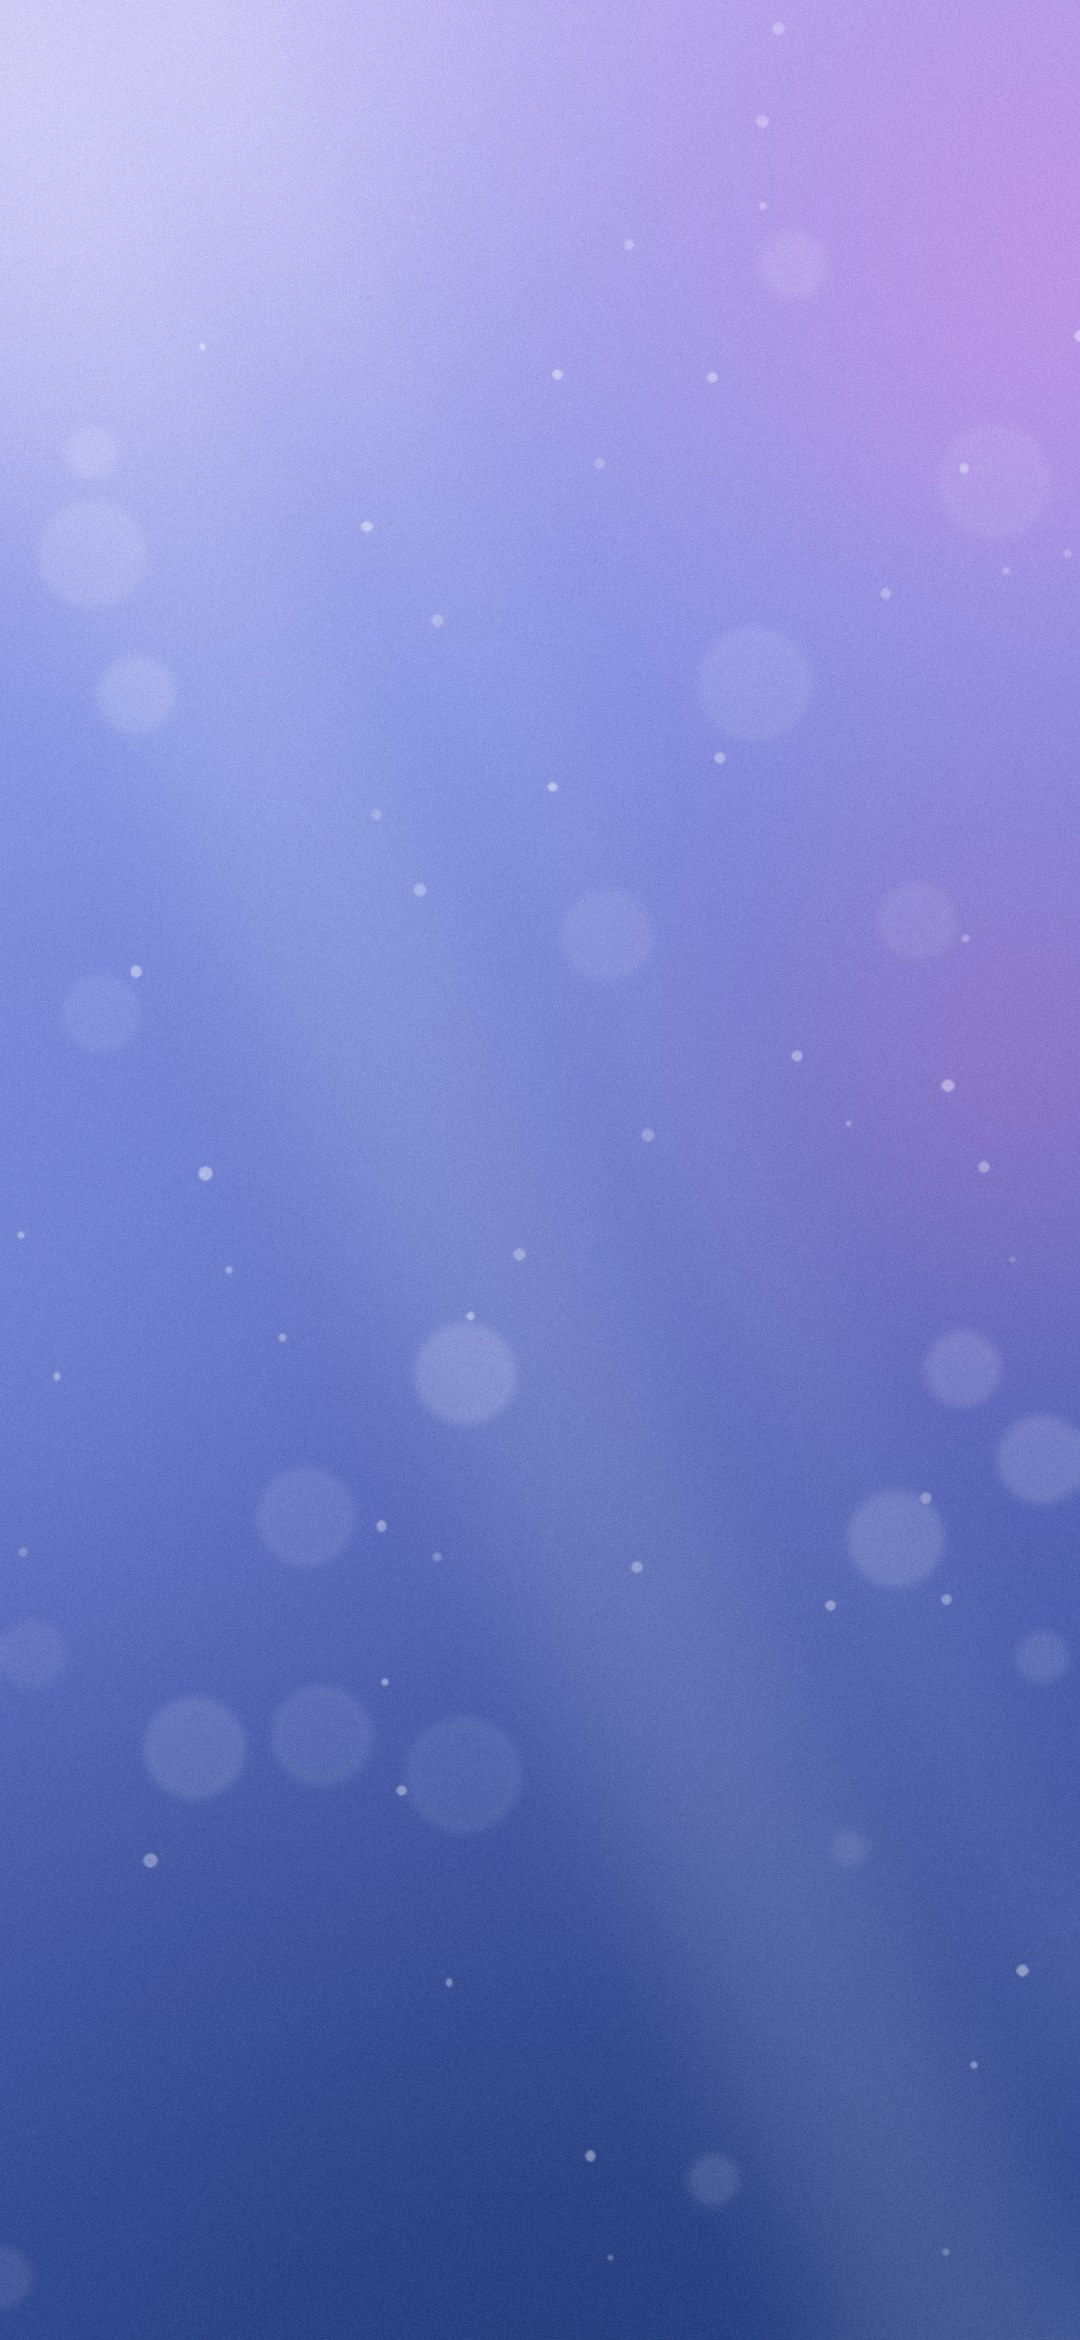
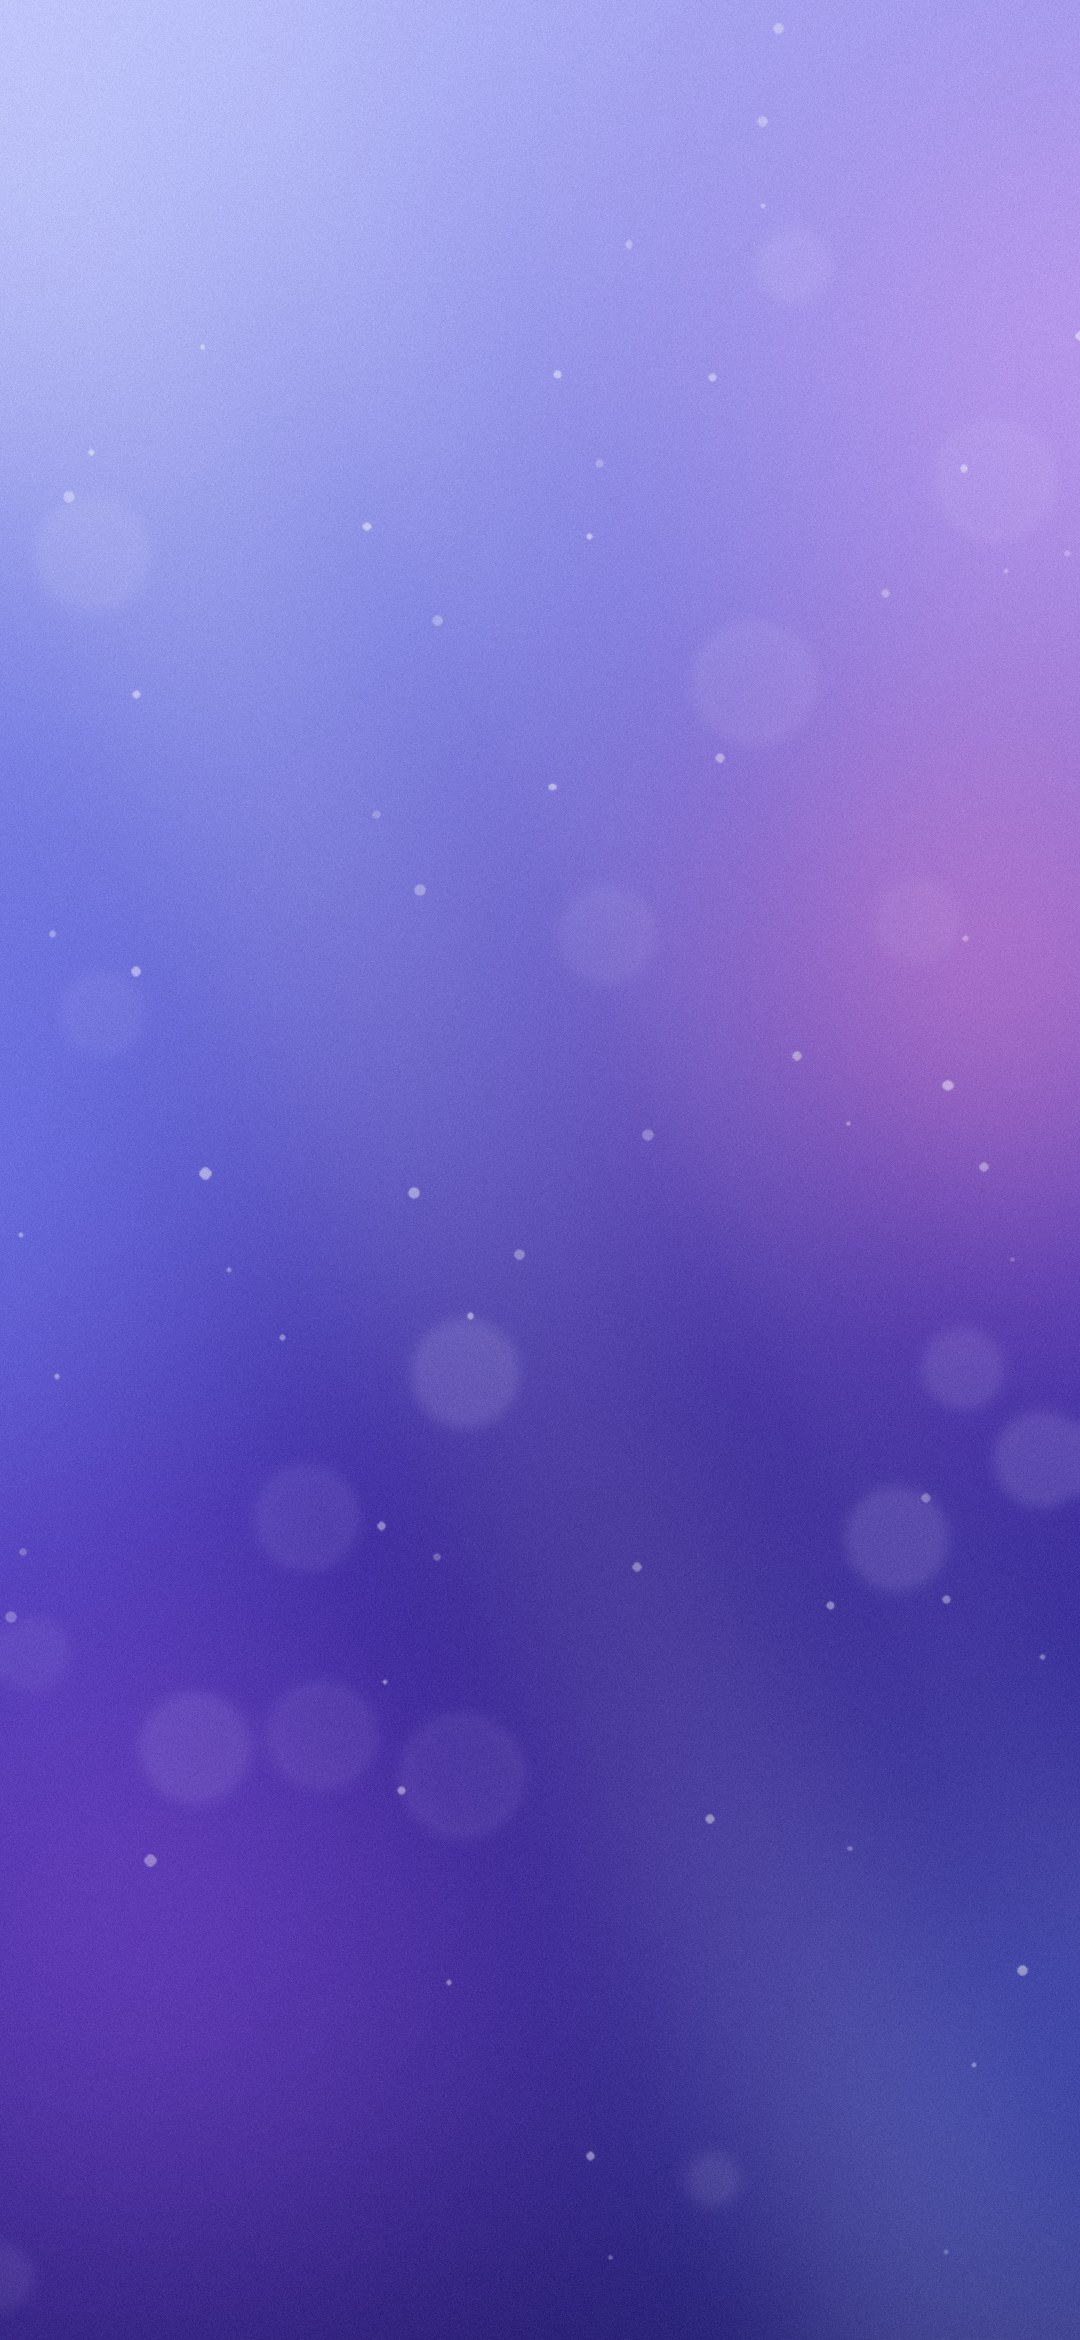
Light and material: lit backdrops, frosted and smoked glass, glow
Lavender
- Backdrop re-rendered as a lit environment: periwinkle light from the top left, lilac and a
  pink bloom on the right, sinking into electric-indigo depth; bokeh and soft beams
- The flat violet scrim is gone; only a breath of tint remains
- Glass is frost now: mostly clear white with blur, a diagonal inner sheen, bright 1px edges,
  an inner top highlight and a soft floating shadow
- Category circles carry their own tint of light with a matching glow; the artwork card blooms pink
- A soft indigo halo behind row text keeps it legible over the brighter glass

Stone
- Backdrop: a broad warm shaft of window light with haze, falling into warm shadow
- Smoked glass: darker translucent fill, faint edges, a low inner highlight, natural shadow

Claude-Session: https://claude.ai/code/session_01J4isz7QKZ3STKCNEGrqxRF

diff --git a/src/components/GlassHome.tsx b/src/components/GlassHome.tsx
@@ -22,6 +22,22 @@ export interface HomeItem {
   onLongPress?: () => void;
 }
 
+/** Each category circle carries its own tint of light, with a matching glow beneath it. */
+const CIRCLE_TINTS = [
+  'rgba(236,120,220,0.30)',
+  'rgba(110,170,255,0.30)',
+  'rgba(160,120,255,0.32)',
+  'rgba(255,140,190,0.28)',
+  'rgba(200,190,255,0.28)',
+];
+const CIRCLE_GLOWS = [
+  'rgba(236,120,220,0.45)',
+  'rgba(110,170,255,0.45)',
+  'rgba(160,120,255,0.45)',
+  'rgba(255,140,190,0.42)',
+  'rgba(200,190,255,0.4)',
+];
+
 /** Vivid tile colours for Lavender rows, so each row reads at a glance like album art. */
 const TILES: [string, string][] = [
   ['#FF8AD8', '#7B5CFF'],
@@ -137,12 +153,12 @@ function LavenderHome(p: Props) {
 
       <SectionHead title="Categories" action="See all" onAction={p.onSeeAll} />
       <View style={styles.circles}>
-        {p.categories.map((c) => (
+        {p.categories.map((c, i) => (
           <View key={c.label} style={styles.circleItem}>
             <Glass
               radius={26}
-              tint={c.active ? colors.selected : undefined}
-              style={styles.circle}
+              tint={c.active ? colors.selected : CIRCLE_TINTS[i % CIRCLE_TINTS.length]}
+              style={[styles.circle, { boxShadow: `0px 6px 20px ${CIRCLE_GLOWS[i % CIRCLE_GLOWS.length]}` }]}
               onPress={c.onPress}
               accessibilityLabel={c.label}
             >
@@ -332,7 +348,7 @@ function SectionHead({ title, action, onAction }: { title: string; action?: stri
   );
 }
 
-const makeStyles = ({ colors, fonts }: Theme) =>
+const makeStyles = ({ colors, fonts, name }: Theme) =>
   StyleSheet.create({
     flex: { flex: 1 },
     bar: { flexDirection: 'row', alignItems: 'center', justifyContent: 'space-between', height: 44 },
@@ -368,8 +384,9 @@ const makeStyles = ({ colors, fonts }: Theme) =>
       overflow: 'hidden',
       padding: 20,
       borderWidth: 1,
-      borderColor: 'rgba(255,255,255,0.35)',
-      boxShadow: colors.shadow,
+      borderColor: 'rgba(255,255,255,0.4)',
+      // A pink bloom under the artwork, as if the scene lights the glass around it.
+      boxShadow: '0px 18px 44px rgba(255,110,200,0.32), 0px 8px 18px rgba(30,16,100,0.35)',
     },
     lavEyebrow: { fontFamily: fonts.bodyMedium, fontSize: 14, color: 'rgba(255,255,255,0.85)' },
     lavHeroTitle: {
@@ -401,13 +418,35 @@ const makeStyles = ({ colors, fonts }: Theme) =>
     circles: { flexDirection: 'row', justifyContent: 'space-between' },
     circleItem: { alignItems: 'center', gap: 8, width: 66 },
     circle: { width: 52, height: 52, alignItems: 'center', justifyContent: 'center' },
-    circleLabel: { fontFamily: fonts.bodyMedium, fontSize: 13, color: colors.text },
+    circleLabel: {
+      fontFamily: fonts.bodyMedium,
+      fontSize: 13,
+      color: colors.text,
+      ...(name === 'lavender'
+        ? { textShadowColor: 'rgba(28,14,110,0.55)', textShadowRadius: 8, textShadowOffset: { width: 0, height: 1 } }
+        : null),
+    },
     rows: { gap: 10 },
     row: { flexDirection: 'row', alignItems: 'center', gap: 12, padding: 8, paddingRight: 12 },
     emptyRow: { flexDirection: 'row', alignItems: 'center', gap: 10, padding: 16 },
     thumb: { width: 48, height: 48, borderRadius: 14, overflow: 'hidden', alignItems: 'center', justifyContent: 'center' },
-    rowTitle: { fontFamily: fonts.bodyBold, fontSize: 16, color: colors.text },
-    rowMeta: { marginTop: 2, fontFamily: fonts.body, fontSize: 14, color: colors.muted },
+    rowTitle: {
+      fontFamily: fonts.bodyBold,
+      fontSize: 16,
+      color: colors.text,
+      ...(name === 'lavender'
+        ? { textShadowColor: 'rgba(28,14,110,0.55)', textShadowRadius: 8, textShadowOffset: { width: 0, height: 1 } }
+        : null),
+    },
+    rowMeta: {
+      marginTop: 2,
+      fontFamily: fonts.body,
+      fontSize: 14,
+      color: colors.muted,
+      ...(name === 'lavender'
+        ? { textShadowColor: 'rgba(28,14,110,0.55)', textShadowRadius: 8, textShadowOffset: { width: 0, height: 1 } }
+        : null),
+    },
     rowDone: { opacity: 0.6, textDecorationLine: 'line-through' },
     rowButton: {
       width: 44,

diff --git a/src/theme.ts b/src/theme.ts
@@ -59,10 +59,10 @@ export type Kind = 'routines' | 'gym' | 'chinese' | 'groceries' | 'calendar' | '
 const PALETTES: Record<ThemeName, { colors: Palette; kinds: Record<Kind, KindStyle> }> = {
   lavender: {
     colors: {
-      gradient: ['#B4A8EE', '#8494E3', '#3D5FB9'],
-      bg: '#8494E3',
+      gradient: ['#A3A6F2', '#5E5FD0', '#221A68'],
+      bg: '#5E5FD0',
       card: 'rgba(40,70,160,0.32)',
-      cardBorder: 'rgba(255,255,255,0.24)',
+      cardBorder: 'rgba(255,255,255,0.28)',
       sheet: '#5B6BBC',
       input: 'rgba(40,70,160,0.32)',
       text: '#FFFFFF',
@@ -74,18 +74,18 @@ const PALETTES: Record<ThemeName, { colors: Palette; kinds: Record<Kind, KindSty
       primarySoft: 'rgba(147,141,238,0.6)',
       danger: '#FFD1DC',
       backdrop: 'rgba(20,30,80,0.4)',
-      tabBar: 'rgba(104,112,224,0.55)',
+      tabBar: 'rgba(255,255,255,0.12)',
       statusBar: 'light',
-      glassFill: ['rgba(96,102,226,0.55)', 'rgba(58,70,192,0.62)'],
+      glassFill: ['rgba(255,255,255,0.15)', 'rgba(255,255,255,0.03)'],
       blurTint: 'default',
       glow: '#CD94E6',
-      rim: 'rgba(255,255,255,0.4)',
+      rim: 'rgba(255,255,255,0.62)',
       accent: '#F270C8',
       selected: '#6E5FD3',
       onSelected: '#FFFFFF',
-      shadow: '0px 10px 30px rgba(35,58,140,0.35)',
-      shine: 'rgba(255,255,255,0.12)',
-      edgeGlow: 'rgba(205,148,230,0.22)',
+      shadow: '0px 14px 34px rgba(26,14,96,0.38), inset 0px 1px 1px rgba(255,255,255,0.45)',
+      shine: 'rgba(255,255,255,0.2)',
+      edgeGlow: 'rgba(255,143,208,0.2)',
     },
     kinds: {
       routines: { color: '#5B43D6', soft: 'rgba(91,67,214,0.25)', label: 'Routines' },
@@ -101,7 +101,7 @@ const PALETTES: Record<ThemeName, { colors: Palette; kinds: Record<Kind, KindSty
       gradient: ['#676755', '#4B4B44', '#31332B'],
       bg: '#4B4B44',
       card: 'rgba(255,250,235,0.08)',
-      cardBorder: 'rgba(255,250,235,0.14)',
+      cardBorder: 'rgba(255,250,235,0.10)',
       sheet: '#3F403A',
       input: 'rgba(255,250,235,0.08)',
       text: '#FFFBE9',
@@ -113,17 +113,17 @@ const PALETTES: Record<ThemeName, { colors: Palette; kinds: Record<Kind, KindSty
       primarySoft: 'rgba(255,251,233,0.12)',
       danger: '#E7A08F',
       backdrop: 'rgba(0,0,0,0.45)',
-      tabBar: 'rgba(40,40,32,0.45)',
+      tabBar: 'rgba(28,28,22,0.4)',
       statusBar: 'light',
-      glassFill: ['rgba(255,250,235,0.10)', 'rgba(255,250,235,0.04)'],
+      glassFill: ['rgba(40,39,30,0.30)', 'rgba(22,22,16,0.42)'],
       blurTint: 'dark',
       glow: '#E6D6B3',
-      rim: '#93917C',
+      rim: 'rgba(255,248,230,0.24)',
       accent: '#E6D6B3',
       selected: '#E6D6B3',
       onSelected: '#2E2D24',
-      shadow: '0px 6px 18px rgba(0,0,0,0.18)',
-      shine: 'rgba(255,248,230,0.08)',
+      shadow: '0px 12px 30px rgba(0,0,0,0.3), inset 0px 1px 0px rgba(255,248,230,0.12)',
+      shine: 'rgba(255,248,230,0.07)',
       edgeGlow: 'rgba(230,214,179,0.06)',
     },
     kinds: {
@@ -230,7 +230,15 @@ export interface Theme {
 export function buildTheme(name: ThemeName): Theme {
   const { colors, kinds } = PALETTES[name] ?? PALETTES.lavender;
   const fonts = { ...FONTS, ...DISPLAY[name] };
-  return { name, colors, kinds, fonts, type: makeType(colors, fonts, name !== 'paper'), radius: name === 'paper' ? 16 : 22, glass: name !== 'paper' };
+  return {
+    name,
+    colors,
+    kinds,
+    fonts,
+    type: makeType(colors, fonts, name !== 'paper'),
+    radius: name === 'paper' ? 16 : 22,
+    glass: name !== 'paper',
+  };
 }
 
 const THEMES: Record<ThemeName, Theme> = {

diff --git a/src/components/Glass.tsx b/src/components/Glass.tsx
@@ -39,7 +39,11 @@ export function Glass({ style, radius, intensity = 85, tint, onPress, onLongPres
   const interactive = !!(onPress || onLongPress);
 
   if (!glass) {
-    const plain = <View style={[{ borderRadius: r, backgroundColor: colors.card, borderWidth: 1, borderColor: colors.cardBorder }, style]}>{children}</View>;
+    const plain = (
+      <View style={[{ borderRadius: r, backgroundColor: colors.card, borderWidth: 1, borderColor: colors.cardBorder }, style]}>
+        {children}
+      </View>
+    );
     return interactive ? (
       <Pressable onPress={onPress} onLongPress={onLongPress} accessibilityLabel={accessibilityLabel} accessibilityRole="button">
         {plain}
@@ -70,18 +74,39 @@ export function Glass({ style, radius, intensity = 85, tint, onPress, onLongPres
           style={StyleSheet.absoluteFill}
         />
       )}
-      <LinearGradient colors={colors.glassFill} start={{ x: 0, y: 0 }} end={{ x: 1, y: 1 }} style={StyleSheet.absoluteFill} pointerEvents="none" />
+      <LinearGradient
+        colors={colors.glassFill}
+        start={{ x: 0, y: 0 }}
+        end={{ x: 1, y: 1 }}
+        style={StyleSheet.absoluteFill}
+        pointerEvents="none"
+      />
       {tint ? <View style={[StyleSheet.absoluteFill, { backgroundColor: tint }]} pointerEvents="none" /> : null}
       {/* Specular shine across the top, and the surrounding colour caught along the bottom edge. */}
-      <LinearGradient colors={[colors.shine, 'transparent']} end={{ x: 0, y: 0.45 }} style={StyleSheet.absoluteFill} pointerEvents="none" />
-      <LinearGradient colors={['transparent', colors.edgeGlow]} start={{ x: 0, y: 0.6 }} end={{ x: 0, y: 1 }} style={StyleSheet.absoluteFill} pointerEvents="none" />
-      {interactive && <Animated.View style={[StyleSheet.absoluteFill, { backgroundColor: colors.shine, opacity: press }]} pointerEvents="none" />}
+      <LinearGradient
+        colors={[colors.shine, 'transparent']}
+        start={{ x: 0, y: 0 }}
+        end={{ x: 0.65, y: 0.65 }}
+        style={StyleSheet.absoluteFill}
+        pointerEvents="none"
+      />
+      <LinearGradient
+        colors={['transparent', colors.edgeGlow]}
+        start={{ x: 0, y: 0.6 }}
+        end={{ x: 0, y: 1 }}
+        style={StyleSheet.absoluteFill}
+        pointerEvents="none"
+      />
+      {interactive && (
+        <Animated.View style={[StyleSheet.absoluteFill, { backgroundColor: colors.shine, opacity: press }]} pointerEvents="none" />
+      )}
       <InsideGlass.Provider value>{children}</InsideGlass.Provider>
     </Animated.View>
   );
   if (!interactive) return body;
 
-  const springTo = (toValue: number) => Animated.spring(press, { toValue, useNativeDriver: true, speed: 40, bounciness: toValue ? 0 : 10 }).start();
+  const springTo = (toValue: number) =>
+    Animated.spring(press, { toValue, useNativeDriver: true, speed: 40, bounciness: toValue ? 0 : 10 }).start();
   return (
     <Pressable
       onPress={onPress}

diff --git a/src/screens/RoutinesScreen.tsx b/src/screens/RoutinesScreen.tsx
@@ -299,7 +299,7 @@ function ArtRow({
   );
 }
 
-const makeStyles = ({ colors, fonts, radius }: Theme) =>
+const makeStyles = ({ colors, fonts, radius, name }: Theme) =>
   StyleSheet.create({
     flex: { flex: 1 },
     shelf: { gap: 10 },
@@ -326,8 +326,23 @@ const makeStyles = ({ colors, fonts, radius }: Theme) =>
       justifyContent: 'center',
       backgroundColor: colors.primarySoft,
     },
-    rowTitle: { fontFamily: fonts.bodyBold, fontSize: 16, color: colors.text },
-    rowMeta: { marginTop: 2, fontFamily: fonts.body, fontSize: 14, color: colors.muted },
+    rowTitle: {
+      fontFamily: fonts.bodyBold,
+      fontSize: 16,
+      color: colors.text,
+      ...(name === 'lavender'
+        ? { textShadowColor: 'rgba(28,14,110,0.55)', textShadowRadius: 8, textShadowOffset: { width: 0, height: 1 } }
+        : null),
+    },
+    rowMeta: {
+      marginTop: 2,
+      fontFamily: fonts.body,
+      fontSize: 14,
+      color: colors.muted,
+      ...(name === 'lavender'
+        ? { textShadowColor: 'rgba(28,14,110,0.55)', textShadowRadius: 8, textShadowOffset: { width: 0, height: 1 } }
+        : null),
+    },
     rowDone: { textDecorationLine: 'line-through', opacity: 0.75 },
     tick: {
       width: 44,

diff --git a/src/components/Art.tsx b/src/components/Art.tsx
@@ -9,12 +9,11 @@ const BACKDROPS = {
   lavender: require('../../assets/art/lavender-bg.jpg'),
   stone: require('../../assets/art/stone-bg.jpg'),
 };
-// A light veil over each backdrop so white text keeps its contrast where the light is brightest.
-// Lavender darkens with a saturated violet rather than slate, so the light stays vivid instead of greying.
-const SCRIMS = { lavender: 'rgba(48,34,168,0.3)', stone: 'rgba(16,16,10,0.28)' };
+// The backdrops carry their own light and depth now; only a breath of tint keeps them in the look's family.
+const SCRIMS = { lavender: 'rgba(30,20,110,0.06)', stone: 'rgba(16,16,10,0.06)' };
 // Headers sit straight on the backdrop, where its light is brightest; a deeper veil up top keeps them readable.
 const TOP_VEILS: Record<'lavender' | 'stone', [string, string]> = {
-  lavender: ['rgba(44,56,150,0.66)', 'rgba(44,56,150,0)'],
+  lavender: ['rgba(46,40,150,0.55)', 'rgba(46,40,150,0)'],
   stone: ['rgba(20,20,14,0.52)', 'rgba(20,20,14,0)'],
 };
 const PORTALS: Record<string, number> = {

diff --git a/scripts/render-art.py b/scripts/render-art.py
@@ -70,31 +70,36 @@ def save(img, name, quality=88):
 
 
 def lavender_backdrop():
-    """Measured from the reference: a light lavender sky that deepens through periwinkle into cobalt,
-    with orchid and a touch of hot pink in the light."""
-    img = gradient([(0, hexc('#B4A8EE')), (0.3, hexc('#8494E3')), (0.62, hexc('#5B6BBC')), (1, hexc('#2C4790'))], tilt=0.08)
-    glow(img, W * 0.1, H * 0.02, W * 0.6, hexc('#DBDCFD'), 0.6)
-    glow(img, W * 1.0, H * 0.12, W * 0.55, hexc('#CD94E6'), 0.65)
-    glow(img, W * 0.95, H * 0.45, W * 0.4, hexc('#F270C8'), 0.22)
-    glow(img, W * 0.0, H * 0.55, W * 0.5, hexc('#8494E3'), 0.35)
-    glow(img, W * 0.5, H * 1.05, W * 0.8, hexc('#233A73'), 0.6)
-    img = 1 - (1 - img) * (1 - beams([(-200, 260, 0.12), (140, 90, 0.09)], 24, 50))
-    img = bokeh(img, 22, 18, 64, (235, 235, 255), 0.16, 6)
-    img = bokeh(img, 50, 3, 7, (255, 255, 255), 0.45, 1.2)
-    save(grain(img, 0.016), 'lavender-bg')
+    """A lit digital environment: periwinkle light falling from the top left, lilac and a pink bloom
+    on the right, sinking into electric-indigo depth lower down, where the glass and its text sit."""
+    img = gradient([(0, hexc('#A3A6F2')), (0.28, hexc('#7479DD')), (0.6, hexc('#4636B0')), (1, hexc('#221A68'))], tilt=0.1)
+    glow(img, W * 0.05, H * 0.0, W * 0.75, hexc('#C9D2FF'), 0.6)
+    glow(img, W * 1.05, H * 0.16, W * 0.6, hexc('#D9A6F2'), 0.6)
+    glow(img, W * 0.92, H * 0.42, W * 0.45, hexc('#FF8FD0'), 0.42)
+    glow(img, W * -0.1, H * 0.5, W * 0.55, hexc('#7C8CFF'), 0.45)
+    glow(img, W * 0.15, H * 0.82, W * 0.55, hexc('#9A55E8'), 0.4)
+    glow(img, W * 1.0, H * 0.9, W * 0.5, hexc('#5E8BFF'), 0.32)
+    glow(img, W * 0.55, H * 0.66, W * 0.5, hexc('#24187A'), 0.45)
+    img = 1 - (1 - img) * (1 - beams([(-220, 300, 0.10), (160, 110, 0.07)], 24, 60))
+    img = bokeh(img, 18, 20, 70, (230, 220, 255), 0.13, 8)
+    img = bokeh(img, 60, 2, 6, (255, 255, 255), 0.5, 1.0)
+    save(grain(img, 0.014), 'lavender-bg')
 
 
 def stone_backdrop():
-    """Measured from the reference: warm olive-grey, sunlit at the top left, falling into shadow.
-    All warm; no cool colours."""
-    img = gradient([(0, hexc('#676755')), (0.45, hexc('#4B4B44')), (1, hexc('#31332B'))], tilt=0.2)
-    glow(img, -W * 0.1, -H * 0.05, W * 1.0, hexc('#F3E6C4'), 0.45)
-    glow(img, W * 0.5, H * 1.1, W * 0.9, hexc('#1B1A16'), 0.5)
-    fade = np.clip(1.15 - np.linspace(0, 1, H) * 1.1, 0, 1)[:, None, None]  # sunlight fades lower down
-    light = beams([(-300, 300, 0.28), (150, 120, 0.22), (380, 60, 0.16), (560, 26, 0.12)], 32, 50) * fade
-    img = 1 - (1 - img) * (1 - light * hexc('#FFF1CF'))
-    img = bokeh(img, 8, 8, 24, (255, 240, 205), 0.1, 4, ymax=0.5)
-    save(grain(img, 0.02), 'stone-bg')
+    """A quiet room lit through a window: a broad warm shaft of sunlight from the top left with haze,
+    olive-grey walls and deep, warm shadow in the lower right. All warm; no cool colours."""
+    img = gradient([(0, hexc('#6A6A58')), (0.4, hexc('#4C4C43')), (1, hexc('#2B2C25'))], tilt=0.22)
+    glow(img, -W * 0.15, -H * 0.08, W * 1.1, hexc('#F6E9C8'), 0.55)
+    glow(img, W * 0.95, H * 1.05, W * 1.0, hexc('#16150F'), 0.6)
+    glow(img, W * 0.2, H * 0.55, W * 0.6, hexc('#8A8A70'), 0.18)
+    fade = np.clip(1.25 - np.linspace(0, 1, H) * 1.15, 0, 1)[:, None, None]  # sunlight falls off lower down
+    light = beams([(-340, 360, 0.34), (120, 170, 0.28), (360, 80, 0.2), (560, 36, 0.14)], 34, 60) * fade
+    img = 1 - (1 - img) * (1 - light * hexc('#FFF0CC'))
+    haze = np.clip(1 - np.linspace(0, 1, H) * 1.6, 0, 1)[:, None, None] * 0.10
+    img = img * (1 - haze) + hexc('#EFE4C8') * haze
+    img = bokeh(img, 10, 8, 26, (255, 240, 205), 0.1, 5, ymax=0.55)
+    save(grain(img, 0.022), 'stone-bg')
 
 
 def portal(name, top, mid, horizon, glow_color, figure, size=1000):
